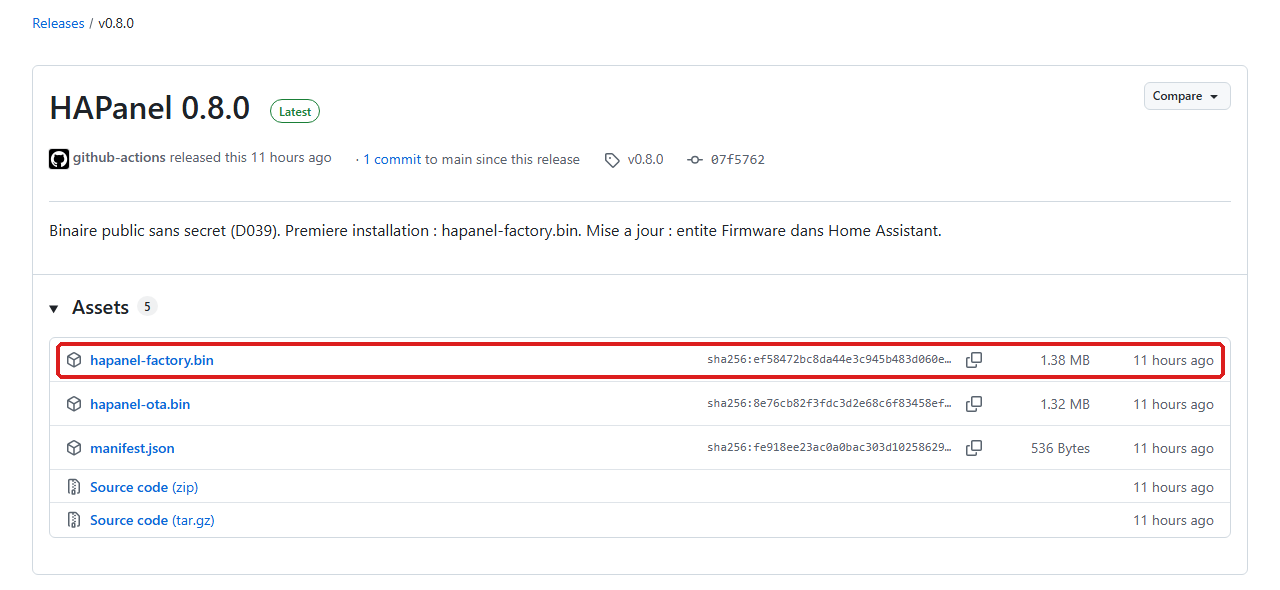
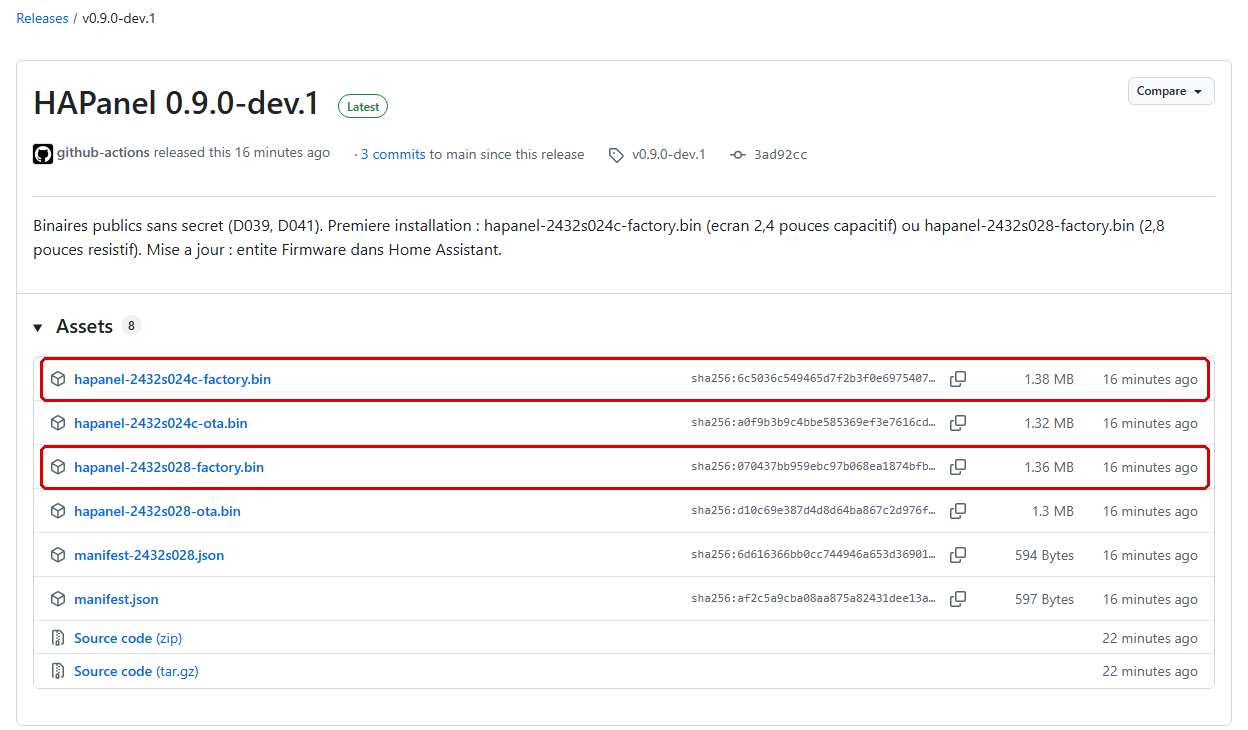
Guide : captures aux noms de fichiers par carte (page de v0.9.0-dev.1, choix du fichier)
Page des versions recapturee sur GitHub ; fenetre de choix du fichier :
nom du fichier seul remplace sur la capture d'origine.

diff --git a/docs/TODO.md b/docs/TODO.md
@@ -17,8 +17,8 @@ Liste unique du reste à faire (G14).
 | 1 | Sécurité : décider de laisser ou non l'autorisation des actions HA sur chaque module (surface plus petite, `08`) ; évaluer l'usurpation de `device_id` (un firmware modifié, avec la clé d'API, pourrait se faire passer pour un autre panneau) et l'inscrire au `08` | — | `docs/…` | À décider avant d'ajouter des commandes (infrarouge) et la mise à jour par HA (D039, faite : surface déjà au `08`), sinon elles seraient à reprendre. |
 | 2 | Mise à jour depuis l'écran (demande du propriétaire du 5 novembre 2026, décision à rédiger) : 1. icône violette **qui clignote** dans la barre d'état quand une mise à jour attend ce module, comme dans AquaLook (précision du 6 novembre 2026 ; icône d'AquaLook à fournir par le propriétaire). Proposition du 6 novembre 2026, à trancher : `mdi:arrow-up-bold-circle` (la plus lisible à 24 px) ou `mdi:package-up` (celle de HA pour une mise à jour disponible), à la place de la disquette, qui passe devant pendant un enregistrement : la barre n'est pas à tasser ; 2. bouton « Rechercher une mise à jour » sur la page À propos ; 3. recherche chaque nuit à 3 h (au lieu de toutes les 6 h ; heure de HA) ; 4. bouton violet dans le Menu pour lancer la mise à jour, avec confirmation puis message « Mise à jour en cours, module indisponible ». Binaire public seulement (entité `maj_firmware`) : le binaire privé de l'atelier n'affiche rien | D039 (acceptée) | à créer | Complète l'installation sans HA ; place dans la barre à vérifier (entre le titre et la disquette). |
 | 3 | Projet publiable (D038) : cadrer avec le propriétaire la licence (dépôt déjà public, sans licence), la relecture de la doc (retirer le personnel), l'adoption par chaque utilisateur ; binaire générique, Wi-Fi saisi à l'installation et publication sur GitHub faits (D039) | — | à créer | Orientation du projet : à cadrer tôt pour que l'infrarouge et la suite ne mettent rien de propre à la maison dans le firmware. |
-| 4 | Page d'installation par carte (demande du propriétaire du 7 novembre 2026, décision D043 à rédiger) : une Release n'a pas de dossiers, 10 cartes y mettraient 30 fichiers à plat. Page sur GitHub Pages, menu « Votre carte » et bouton « Installer » (ESP Web Tools, Wi-Fi saisi à l'installation), fichiers rangés dans un dossier par carte et copiés par la publication (une page ne peut pas lire les fichiers d'une Release) ; `manifest.json` reste dans la Release (adresse compilée dans les modules, D041) ; nouvelle surface publique au `08` ; guide : plus de fichier à télécharger ni à choisir | Release `v0.9.0` (cahier J16, K12 à K15) | à créer | Avant d'ajouter d'autres cartes (rang 5), qui rendraient la liste ingérable ; les captures du guide ne sont alors refaites qu'une fois. |
-| 5 | Indépendance du matériel (demande du propriétaire du 5 novembre 2026, décision à rédiger ; l'ESP32-2432S024C de 2,4 pouces semble ne plus être fabriqué) : 1. interface construite selon la taille de l'écran déclarée dans les paramètres, et non plus calée sur 320 × 240 ; 2. GPIO configurables : écran, tactile, diode infrarouge, LED d'état, LDR ; ESP32-2432S028 validée au banc le 7 novembre 2026 (fichier matériel et binaire public par carte, D041, cahier K) ; restent la validation du binaire public S028 (K12 à K15), les captures du guide d'installation (nouveaux noms de fichiers) et la glissière peu adaptée au tactile résistif (K5) ; 3. pilotes d'écran et de tactile configurables ; 4. au total, un firmware indépendant de la carte. Tranché le 7 novembre 2026 (D041) : ESPHome fixe pilotes et broches à la compilation, donc un fichier matériel et un binaire public par carte, choisi à l'installation | Rang 3 (cadrage du public visé) ; choix des nouvelles cartes par le propriétaire | à créer | Avant l'infrarouge, dont la broche doit déjà être un paramètre ; chaque page écrite d'ici là serait sinon à reprendre. |
+| 4 | Page d'installation par carte (demande du propriétaire du 7 novembre 2026, décision D043 à rédiger) : une Release n'a pas de dossiers, 10 cartes y mettraient 30 fichiers à plat. Page sur GitHub Pages, menu « Votre carte » et bouton « Installer » (ESP Web Tools, Wi-Fi saisi à l'installation), fichiers rangés dans un dossier par carte et copiés par la publication (une page ne peut pas lire les fichiers d'une Release) ; `manifest.json` reste dans la Release (adresse compilée dans les modules, D041) ; nouvelle surface publique au `08` ; guide : plus de fichier à télécharger ni à choisir | Release `v0.9.0` (cahier J16, K12 à K15) | à créer | Avant d'ajouter d'autres cartes (rang 5), qui rendraient la liste ingérable ; captures du guide à refaire avec la page. |
+| 5 | Indépendance du matériel (demande du propriétaire du 5 novembre 2026, décision à rédiger ; l'ESP32-2432S024C de 2,4 pouces semble ne plus être fabriqué) : 1. interface construite selon la taille de l'écran déclarée dans les paramètres, et non plus calée sur 320 × 240 ; 2. GPIO configurables : écran, tactile, diode infrarouge, LED d'état, LDR ; ESP32-2432S028 validée au banc le 7 novembre 2026 (fichier matériel et binaire public par carte, D041, cahier K) ; restent la validation du binaire public S028 (K12 à K15) et la glissière peu adaptée au tactile résistif (K5) ; 3. pilotes d'écran et de tactile configurables ; 4. au total, un firmware indépendant de la carte. Tranché le 7 novembre 2026 (D041) : ESPHome fixe pilotes et broches à la compilation, donc un fichier matériel et un binaire public par carte, choisi à l'installation | Rang 3 (cadrage du public visé) ; choix des nouvelles cartes par le propriétaire | à créer | Avant l'infrarouge, dont la broche doit déjà être un paramètre ; chaque page écrite d'ici là serait sinon à reprendre. |
 | 6 | Infrarouge (P5) : 1. marque et modèle exacts des clims (Midea ou compatible pour la chambre des parents) et emplacement des panneaux ; 2. schéma de la diode sur GPIO22 (transistor, résistances, 3,3 V, connecteur avec GND) ; 3. code (`remote_transmitter`, `midea_ir`, repris de `clim-parents`) | Rang 1 ; rang 5 (broche en paramètre) ; réponses du propriétaire au point 1 | à créer | Plus gros chantier : sur une base stable et des règles de sécurité fixées. Le matériel avant le code. En attendant les réponses, passer au rang 7. |
 | 7 | Documentation technique, lots 3 à 6 : `lvgl.md`, `liaison_ha.md` ; `led_veille.md`, `message_accueil.md` ; `pages/` ; blueprints (avec extension du script de contrôle) | Rang 5 (pages reprises) | `docs/…` | Après l'indépendance du matériel, qui modifie toutes les pages. |
 | 8 | Saint du jour : choisir la source (calendrier dans le blueprint, sans Internet, proposé ; ou service en ligne lu par HA). Il s'affiche sur la ligne de la météo, sans changer le firmware | — | à créer | Blueprint seulement (section Message d'accueil, D042). |

diff --git a/docs/INSTALLATION.md b/docs/INSTALLATION.md
@@ -36,7 +36,7 @@ commande, rien à compiler, aucun mot de passe à inventer.
    `hapanel-2432s024c-factory (1).bin`, et l'on risquerait de choisir l'ancien à
    l'étape 3.
 
-![Page de la version, fichier …-factory.bin encadré](images/installation/01_release.png)
+![Page de la version, fichiers …-factory.bin des deux cartes encadrés](images/installation/01_release.png)
 
 Les autres ne servent pas ici : les fichiers `…-ota.bin` et `manifest….json` servent
 aux mises à jour, que Home Assistant fera seul
@@ -110,7 +110,7 @@ Si le pilote manque :
    explications numérotées de la fenêtre ne vous concernent pas : elles visent ceux
    qui compilent leur propre logiciel.
 
-![Fenêtre de choix du fichier, …-factory.bin choisi](images/installation/05_choisir_fichier.png)
+![Fenêtre de choix du fichier, hapanel-2432s024c-factory.bin choisi](images/installation/05_choisir_fichier.png)
 
 3. L'écriture efface tout ce que le module contenait, puis écrit le logiciel, en
    2 minutes environ. **Gardez cette fenêtre visible** : passer à un autre onglet ou
